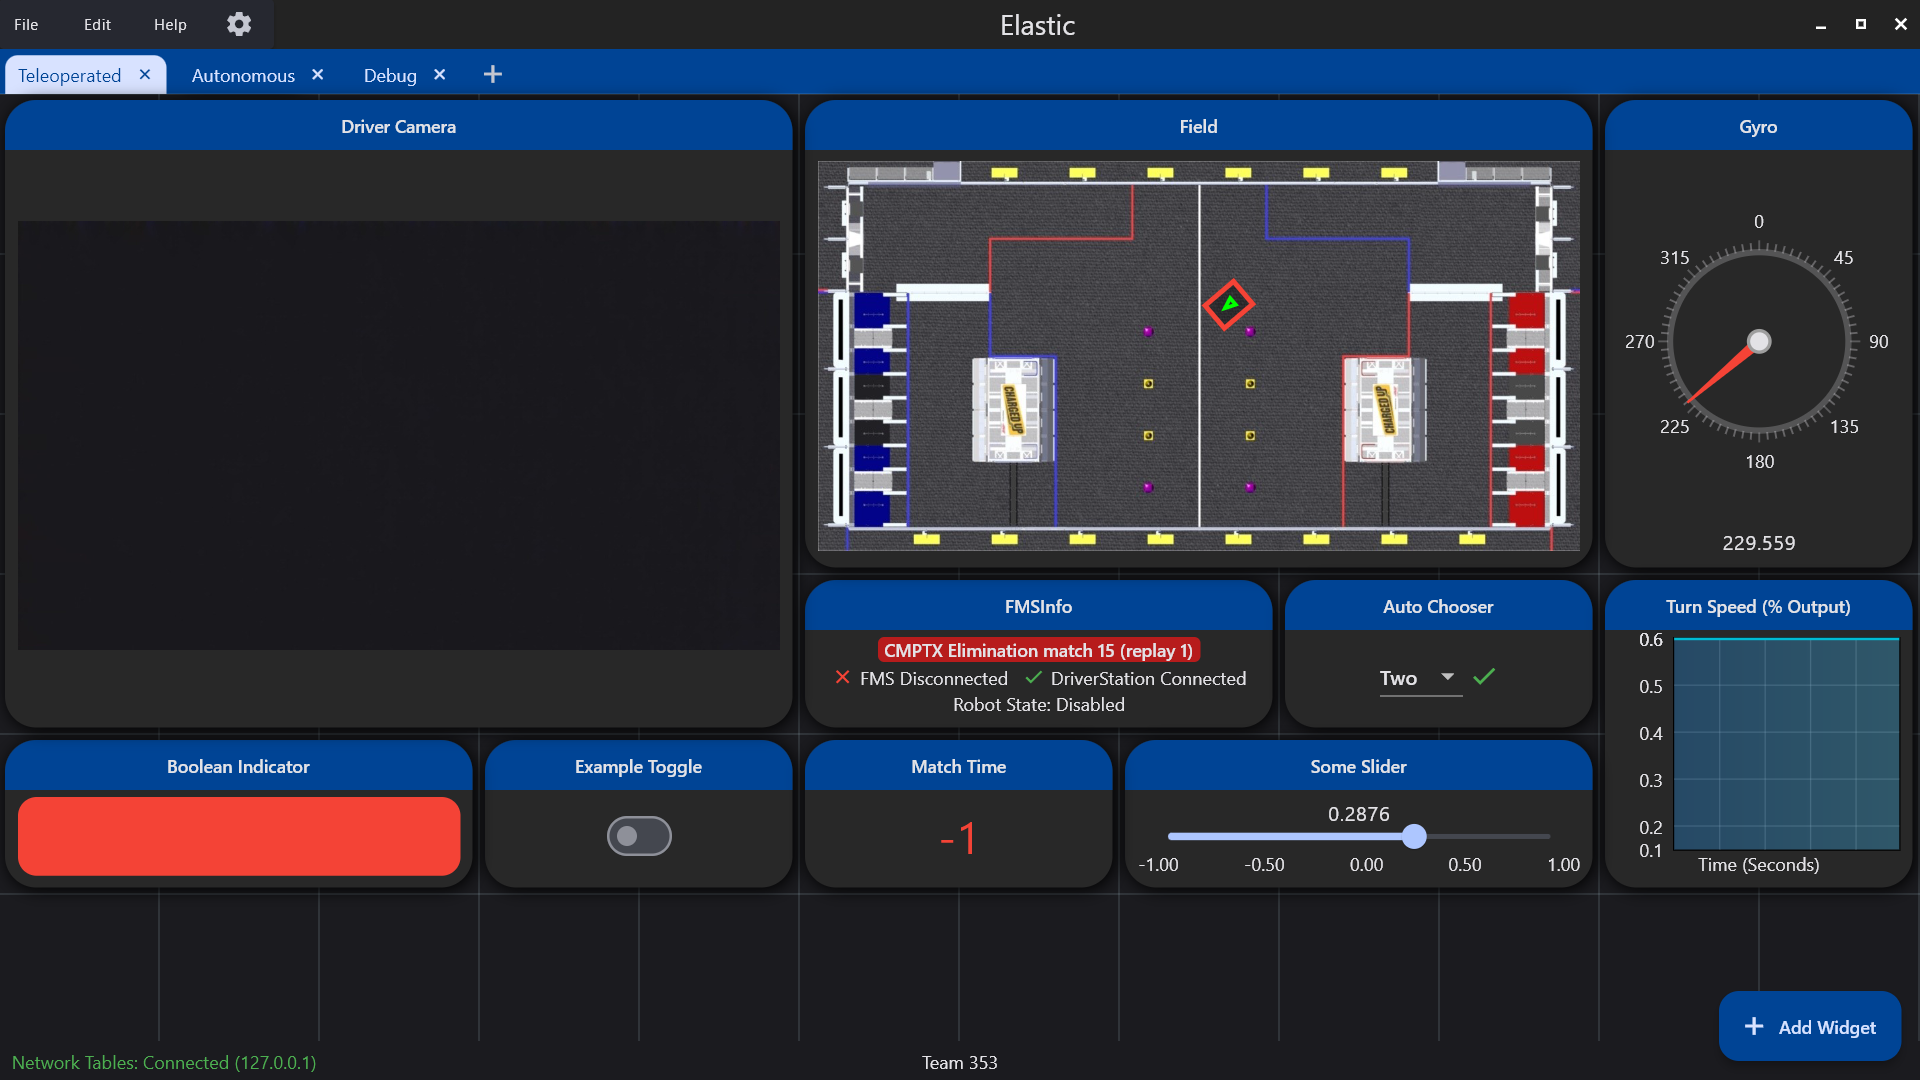
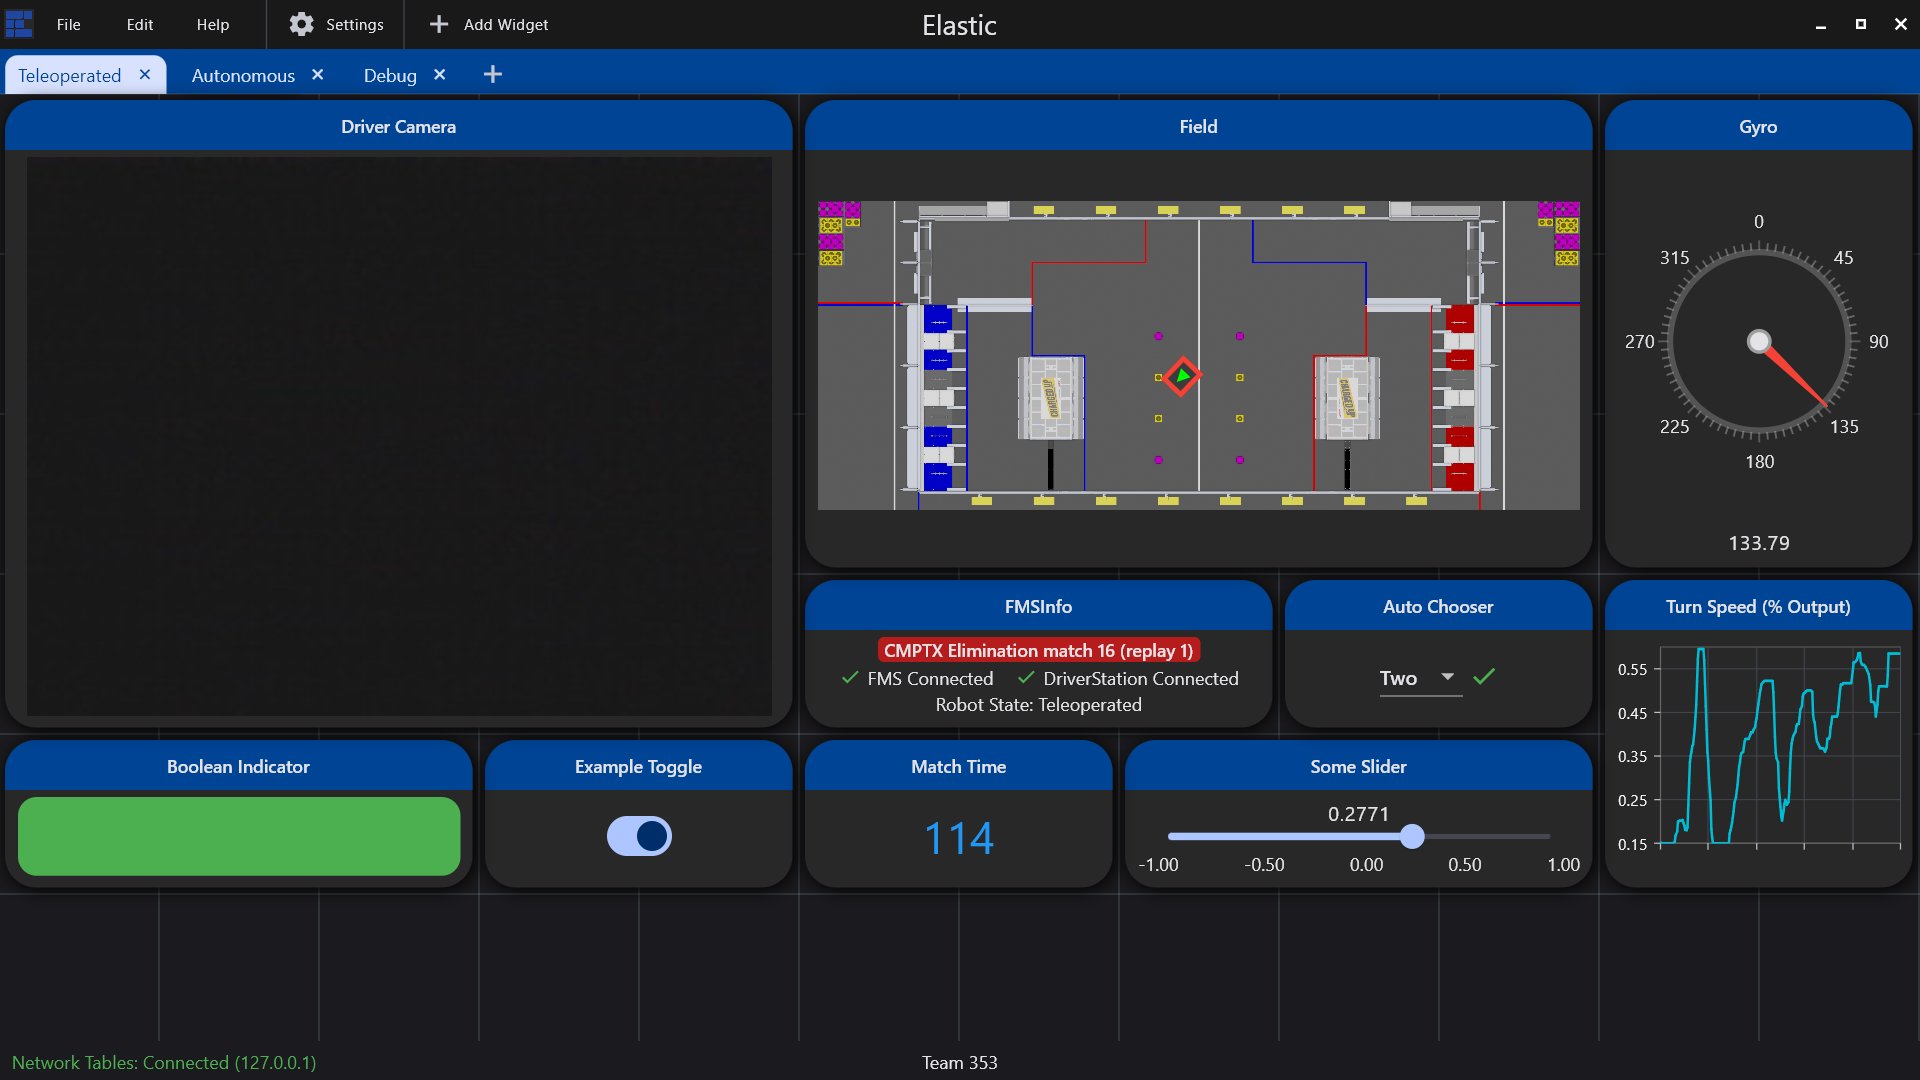
Updated README

diff --git a/README.md b/README.md
@@ -6,13 +6,13 @@ A simple, modern dashboard for FRC teams.
 
 ## About
 
-Elastic is a simple and modern Shuffleboard alternative made by Team 353. It is meant to serve as a dashboard for competition but can also be used for testing. The main features include
+Elastic is a simple and modern Shuffleboard alternative made by Team 353. It is meant to serve as a dashboard for competition but can also be used for testing. Some features include
 
-- Compatibility with WPILib's Shuffleboard API
+- Viewing data from different NT4 topics and widgets
 - Draggable and resizable card widgets
-- Adding widgets from different NT topics
 - Customizable color scheme
 - Automatic IP retrieval from the FRC Driver Station
+- Compatibility with WPILib's Shuffleboard API
 
 ![Example Layout](/screenshots/example_layout.png)
 
@@ -23,7 +23,7 @@ View the online documentation [here](https://github.com/Gold872/elastic-dashboar
 
 Elastic is not complete, there are still more features in the works
 
-High Priority (estimated to be released before the start of the 2024 season):
+High Priority (estimated to be completed by the start of the 2024 season):
 * All widgets from Shuffleboard
 * List layouts
 
@@ -32,7 +32,7 @@ Lower Priority:
 
 ## Special Thanks
 
-This dashboard wouldn't have been made without the help and support from the following people
+This dashboard wouldn't have been made without the help and inspiration from the following people
 
 * [Michael Jansen](https://github.com/mjansen4857) from Team 3015
     * Created the Network Tables library, along with PathPlanner, which inspired many parts of the UI and structure
